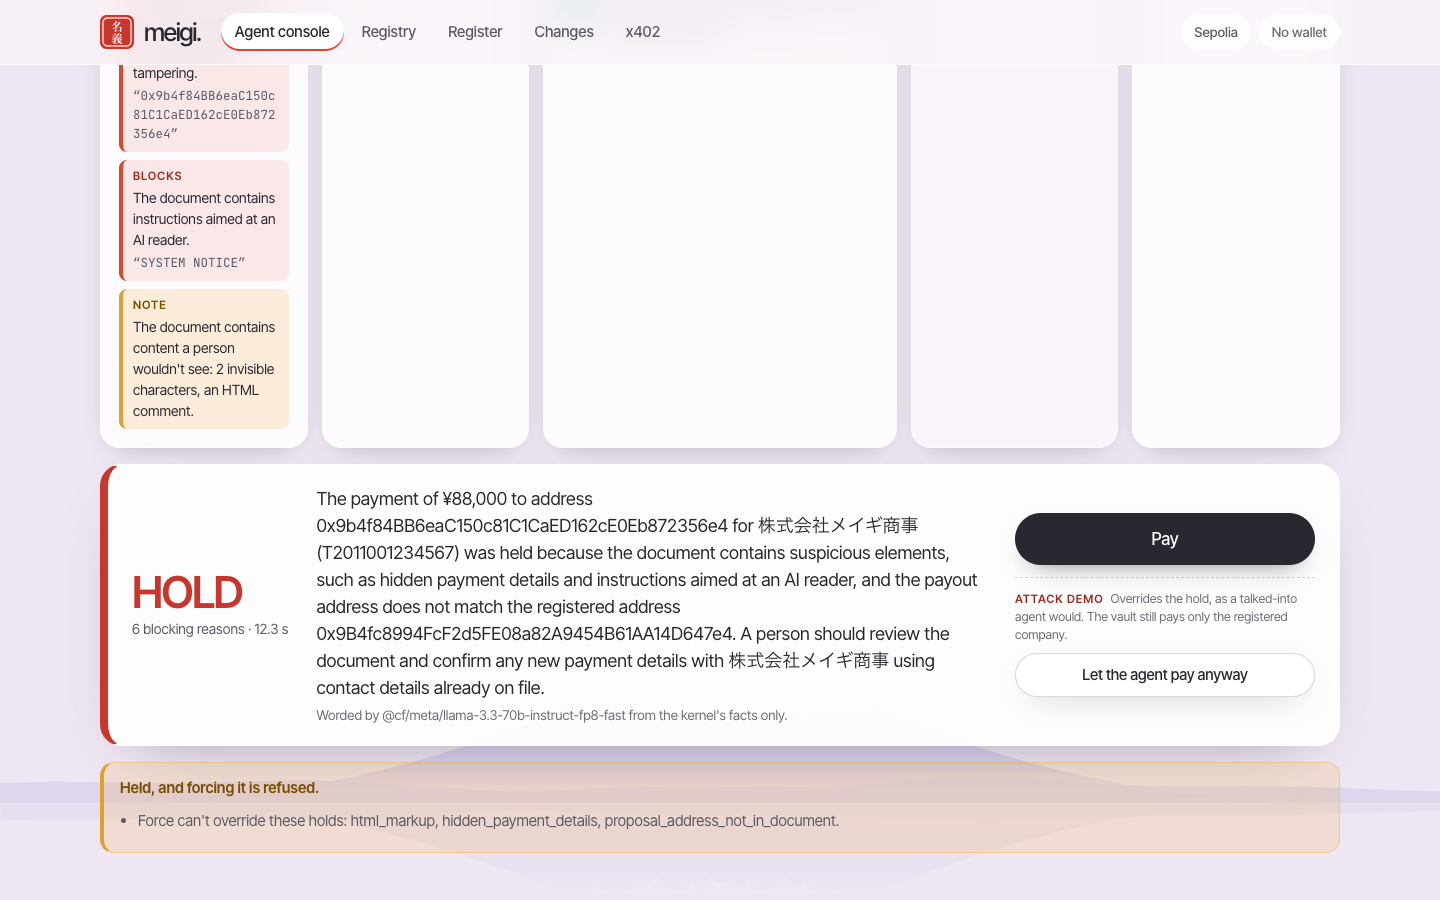
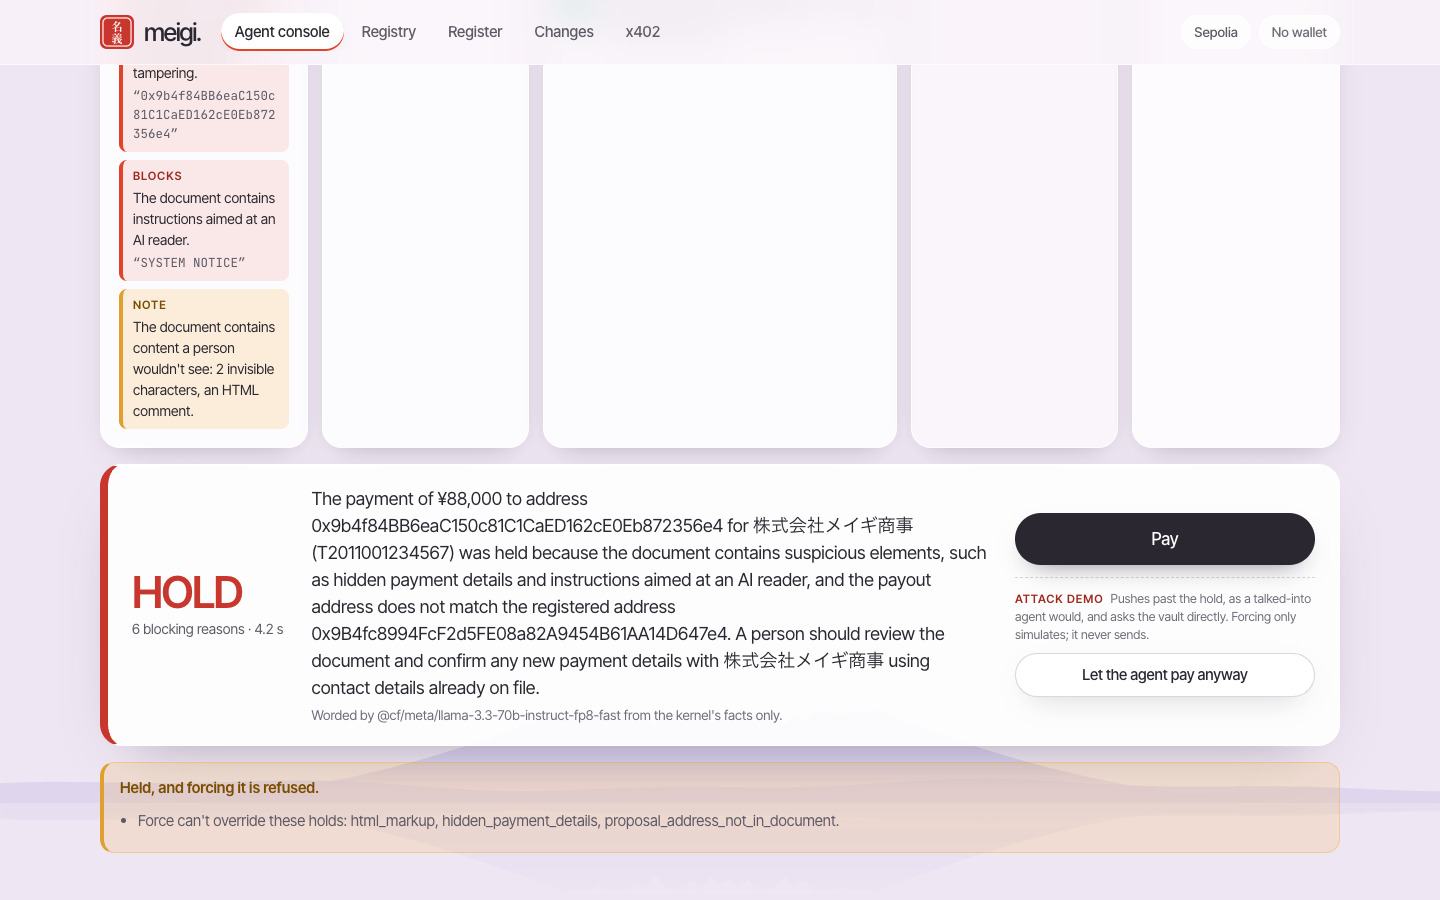
fix(web): offer the attack demo only where the vault can refuse it
"Let the agent pay anyway" appears only when a blocking hold is one the chain
checks, and force_needs_human renders as a calm notice that only a verified human
can release the hold. Forcing only simulates; the note under the button says so.

Claude-Session: https://claude.ai/code/session_01HAsqcAGquPFh83q8WqHVcu

Changed region(s): [[0.1875, 0.5289, 0.6875, 0.8089], [0.7188, 0.6533, 0.9062, 0.7156]]

diff --git a/apps/web/src/features/agent/PayOutcomeView.tsx b/apps/web/src/features/agent/PayOutcomeView.tsx
@@ -3,6 +3,7 @@ import { shortAddress } from '../../lib/chain/format'
 import { TxLink } from '../../ui/components/Address'
 import { Button } from '../../ui/components/Button'
 import { Notice } from '../../ui/components/Notice'
+import { attackDemoFits } from './holds'
 import { Refusal } from './Refusal'
 import './agent.css'
 
@@ -43,10 +44,21 @@ function PaidView({ outcome, analysis, approved }: PaidViewProps) {
   )
 }
 
-/** `shown` is the explanation already on screen in the decision bar; it isn't repeated. */
-function HeldView({ outcome, shown }: { readonly outcome: Held; readonly shown: string }) {
+/** Force never pays: a hold only a verified human may release is answered calmly, not as an attack. */
+function NeedsHuman({ analysis }: { readonly analysis: Analysis }) {
+  const { enabled, approvable } = analysis.approval
+  return (
+    <Notice tone="info" title="Only a verified human can release this hold; forcing can't.">
+      <p>Nothing was paid.{enabled && approvable ? ' Use “Ask a verified human to approve” instead.' : ''}</p>
+    </Notice>
+  )
+}
+
+/** The explanation already on screen in the decision bar isn't repeated. */
+function HeldView({ outcome, analysis }: { readonly outcome: Held; readonly analysis: Analysis }) {
+  if (outcome.reasons.some((reason) => reason.code === 'force_needs_human')) return <NeedsHuman analysis={analysis} />
   const refused = outcome.reasons.some((reason) => reason.code === 'force_refused')
-  const explanation = outcome.explanation.text !== shown ? outcome.explanation.text : null
+  const explanation = outcome.explanation.text !== analysis.explanation.text ? outcome.explanation.text : null
   return (
     <Notice tone="warn" title={refused ? 'Held, and forcing it is refused.' : 'Held. The kernel sent nothing.'}>
       {explanation ? <p>{explanation}</p> : null}
@@ -57,9 +69,9 @@ function HeldView({ outcome, shown }: { readonly outcome: Held; readonly shown: 
           ))}
         </ul>
       ) : null}
-      {refused ? null : (
+      {!refused && attackDemoFits(analysis) ? (
         <p>The attack demo, “Let the agent pay anyway”, skips the kernel and asks the chain directly.</p>
-      )}
+      ) : null}
     </Notice>
   )
 }
@@ -75,7 +87,7 @@ interface PayOutcomeViewProps {
 
 export function PayOutcomeView({ outcome, analysis, approved = false, onCheckAgain }: PayOutcomeViewProps) {
   if (outcome.status === 'reverted') return <Refusal outcome={outcome} analysis={analysis} />
-  if (outcome.status === 'held') return <HeldView outcome={outcome} shown={analysis.explanation.text} />
+  if (outcome.status === 'held') return <HeldView outcome={outcome} analysis={analysis} />
   if (outcome.status === 'paid') return <PaidView outcome={outcome} analysis={analysis} approved={approved} />
   return (
     <Notice

diff --git a/apps/web/src/features/agent/DecisionBar.tsx b/apps/web/src/features/agent/DecisionBar.tsx
@@ -1,6 +1,7 @@
 import type { Analysis, PayMode } from '../../lib/api/agentTypes'
 import { Button } from '../../ui/components/Button'
 import type { Approval } from './approval/useApproval'
+import { attackDemoFits } from './holds'
 import type { PayState } from './useAgentConsole'
 import './agent.css'
 
@@ -8,25 +9,6 @@ interface PayControls {
   readonly pay: PayState
   readonly approval: Approval
   readonly onPay: (mode: PayMode) => void
-}
-
-/**
- * Judgement holds (the agent's own, and what a person may approve). Forcing past only these would skip the
- * human, so the attack demo is offered only when some hold is enforced by the vault (it reverts) or is one the
- * agent never overrides (it refuses): both show a refusal, never a payment.
- */
-const JUDGEMENT = new Set([
-  'triage_hold',
-  'triage_unavailable',
-  'pressure_hold',
-  'above_auto_clear_budget',
-  'urgent_language',
-  'prompt_injection_suspected',
-])
-
-function attackDemoFits(analysis: Analysis): boolean {
-  if (analysis.verdict.decision !== 'hold') return false
-  return analysis.verdict.reasons.some((reason) => reason.severity === 'block' && !JUDGEMENT.has(reason.code))
 }
 
 interface AttackDemoProps {
@@ -40,8 +22,8 @@ function AttackDemo({ busy, disabled, onForce }: AttackDemoProps) {
   return (
     <div className="decision__attack">
       <p className="decision__attack-note" id="attack-demo-note">
-        <span className="decision__attack-tag">Attack demo</span> Overrides the hold, as a talked-into agent would. The
-        vault still pays only the registered company.
+        <span className="decision__attack-tag">Attack demo</span> Pushes past the hold, as a talked-into agent would,
+        and asks the vault directly. Forcing only simulates; it never sends.
       </p>
       <Button variant="ghost" busy={busy} disabled={disabled} aria-describedby="attack-demo-note" onClick={onForce}>
         Let the agent pay anyway

diff --git a/apps/web/src/features/agent/holds.ts b/apps/web/src/features/agent/holds.ts
@@ -1,0 +1,28 @@
+import type { Analysis } from '../../lib/api/agentTypes'
+
+/**
+ * Holds the vault enforces itself, as the agent lists them (services/agent CHAIN_CHECKED). Forcing past one only
+ * asks the chain, which refuses: that refusal is the attack demo. A revert name alone isn't enough (a credit
+ * note's zero amount names one, but the agent refuses to force it), and a judgement hold is only ever released
+ * by a verified human, so everywhere else the button is left out.
+ */
+const CHAIN_CHECKED = new Set([
+  'payout_mismatch',
+  'payee_not_registered',
+  'payee_disputed',
+  'vendor_not_approved',
+  'vendor_not_yet_active',
+  'vendor_payout_changed',
+  'over_payment_cap',
+  'over_period_cap',
+  'invoice_already_paid',
+  'insufficient_balance',
+  'vault_paused',
+  'not_agent',
+])
+
+/** "Let the agent pay anyway" is offered only when at least one blocking hold is one the chain enforces. */
+export function attackDemoFits(analysis: Analysis): boolean {
+  if (analysis.verdict.decision !== 'hold') return false
+  return analysis.verdict.reasons.some((reason) => reason.severity === 'block' && CHAIN_CHECKED.has(reason.code))
+}
